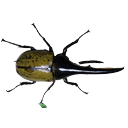
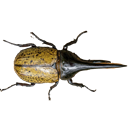
beetledata power add

diff --git a/client/src/utils/beetleData.js b/client/src/utils/beetleData.js
@@ -13,12 +13,13 @@ export const beetleTypes = {
     def: 3,
     carry: 2,
     speed: 0.4,
+    power:100,
     count: 6,
     cost: 10,
     color: '#2E8B57',
     size: 14.2,
     imageScale: 1.1,
-    gachaRate: 0.872,
+    gachaRate: 0.793,
     purchasePrice: null,
   },
   
@@ -31,13 +32,14 @@ export const beetleTypes = {
     def: 10,
     carry: 2,
     speed: 0.35,
+    power:200,
     count: 3,
     cost: 20,
     color: '#654321',
     size: 18.5,
     imageScale: 1.35,
-    gachaRate: 0.034,
-    purchasePrice: 20000,
+    gachaRate: 0.05,
+    purchasePrice: 10000,
   },
   gohontsuno: {
     name: 'ゴホンツノオオカブト',
@@ -47,13 +49,14 @@ export const beetleTypes = {
     def: 10,
     carry: 2,
     speed: 0.3,
+    power:300,
     count: 0,
     cost: 22,
     color: '#6B4423',
     size: 18.7,
     imageScale: 1.4,
-    gachaRate: 0.033,
-    purchasePrice: 20000,
+    gachaRate: 0.05,
+    purchasePrice: 10000,
   },
   saturn: {
     name: 'サターンオオカブト',
@@ -63,13 +66,14 @@ export const beetleTypes = {
     def: 10,
     carry: 2,
     speed: 0.3,
+    power:300,
     count: 0,
     cost: 23,
     color: '#704214',
     size: 19.7,
     imageScale: 1.45,
-    gachaRate: 0.033,
-    purchasePrice: 20000,
+    gachaRate: 0.05,
+    purchasePrice: 10000,
   },
   
   // 3段（高レア）- 4%
@@ -81,13 +85,14 @@ export const beetleTypes = {
     def: 15,
     carry: 2,
     speed: 0.25,
+    power:300,
     count: 2,
     cost: 30,
     color: '#A0522D',
     size: 20.9,
     imageScale: 1.5,
-    gachaRate: 0.005,
-    purchasePrice: 50000,
+    gachaRate: 0.01,
+    purchasePrice: 20000,
   },
   ookuwa: {
     name: 'オオクワガタ',
@@ -97,13 +102,14 @@ export const beetleTypes = {
     def: 13,
     carry: 2,
     speed: 0.22,
+    power:300,
     count: 0,
     cost: 29,
     color: '#2C1810',
     size: 18.5,
     imageScale: 1.55,
-    gachaRate: 0.005,
-    purchasePrice: 50000,
+    gachaRate: 0.01,
+    purchasePrice: 20000,
   },
   elephas: {
     name: 'エレファスゾウカブト',
@@ -113,13 +119,14 @@ export const beetleTypes = {
     def: 23,
     carry: 2,
     speed: 0.15,
+    power:650,
     count: 0,
     cost: 35,
     color: '#c6b8a7ff',
     size: 22.8,
     imageScale: 2.0,
-    gachaRate: 0.005,
-    purchasePrice: 50000,
+    gachaRate: 0.01,
+    purchasePrice: 20000,
   },
   neptune: {
     name: 'ネプチューンオオカブト',
@@ -129,13 +136,14 @@ export const beetleTypes = {
     def: 16,
     carry: 2,
     speed: 0.22,
+    power:350,
     count: 0,
     cost: 32,
     color: '#5C4033',
     size: 21.3,
     imageScale: 1.65,
-    gachaRate: 0.005,
-    purchasePrice: 50000,
+    gachaRate: 0.01,
+    purchasePrice: 20000,
   },
   
   // 4段（最高レア）- 1%
@@ -147,13 +155,14 @@ export const beetleTypes = {
     def: 20,
     carry: 3,
     speed: 0.2,
+    power:400,
     count: 1,
     cost: 40,
     color: '#b2c28eff',
     size: 21.5,
     imageScale: 1.9,
-    gachaRate: 0.00125,
-    purchasePrice: 200000,
+    gachaRate: 0.0025,
+    purchasePrice: 80000,
   },
   caucasus: {
     name: 'コーカサスオオカブト',
@@ -163,13 +172,14 @@ export const beetleTypes = {
     def: 19,
     carry: 3,
     speed: 0.22,
+    power:400,
     count: 0,
     cost: 39,
     color: '#293859ff',
     size: 20.9,
     imageScale: 1.8,
-    gachaRate: 0.00125,
-    purchasePrice: 200000,
+    gachaRate: 0.0025,
+    purchasePrice: 80000,
   },
   palawan: {
     name: 'パラワンヒラタクワガタ',
@@ -179,13 +189,14 @@ export const beetleTypes = {
     def: 17,
     carry: 2,
     speed: 0.23,
+    power:400,
     count: 0,
     cost: 38,
     color: '#322320ff',
     size: 19.6,
     imageScale: 1.8,
-    gachaRate: 0.00125,
-    purchasePrice: 200000,
+    gachaRate: 0.0025,
+    purchasePrice: 80000,
   },
   tarandus: {
     name: 'タランドゥスオオツヤクワガタ',
@@ -195,13 +206,14 @@ export const beetleTypes = {
     def: 16,
     carry: 2,
     speed: 0.22,
+    power:400,
     count: 0,
     cost: 38,
     color: '#120303ff',
     size: 19.2,
     imageScale: 1.7,
-    gachaRate: 0.00125,
-    purchasePrice: 200000,
+    gachaRate: 0.0025,
+    purchasePrice: 80000,
   },
   
   // 5段（特別）- 0.4%
@@ -213,13 +225,14 @@ export const beetleTypes = {
     def: 22,
     carry: 3,
     speed: 0.2,
+    power:450,
     count: 0,
     cost: 50,
     color: '#f33939b8',
     size: 20.8,
     imageScale:2.0,
-    gachaRate: 0.00067,
-    purchasePrice: 500000,
+    gachaRate: 0.00134,
+    purchasePrice: 200000,
   },
   superiorcaucasus: {
     name: 'スペリオルコーカサス',
@@ -229,13 +242,14 @@ export const beetleTypes = {
     def: 20,
     carry: 3,
     speed: 0.2,
+    power:450,
     count: 0,
     cost: 50,
     color: '#65b329ff',
     size: 20.8,
     imageScale: 2.0,
-    gachaRate: 0.00067,
-    purchasePrice: 500000,
+    gachaRate: 0.00133,
+    purchasePrice: 200000,
   },
   niki: {
     name: '金文ニキ',
@@ -245,13 +259,14 @@ export const beetleTypes = {
     def: 3,
     carry: 2,
     speed: 0.5,
+    power:150,
     count: 0,
     cost: 15,
     color: '#1bececff',
     size: 14.7,
     imageScale: 1.15,
-    gachaRate: 0.00066,
-    purchasePrice: 500000,
+    gachaRate: 0.00133,
+    purchasePrice: 200000,
   },
   
   // 6段（幻）- 0.2%
@@ -263,12 +278,13 @@ export const beetleTypes = {
     def: 26,
     carry: 2,
     speed: 0.2,
+    power:500,
     count: 0,
     cost: 60,
     color: '#57d27caa',
     size: 22,
     imageScale: 2.05,
-    gachaRate: 0.0005,
+    gachaRate: 0.001,
     purchasePrice: null,
   },
   marvelous: {
@@ -279,12 +295,13 @@ export const beetleTypes = {
     def: 28,
     carry: 2,
     speed: 0.2,
+    power:500,
     count: 0,
     cost: 62,
     color: '#67dae06f',
     size: 22.1,
     imageScale: 2.1,
-    gachaRate: 0.0005,
+    gachaRate: 0.001,
     purchasePrice: null,
   },
 };
@@ -344,10 +361,10 @@ export const GACHA_RATES = {
  * 🆕 直接購入価格（レアリティ別）
  */
 export const PURCHASE_PRICES = {
-  2: 20000,
-  3: 50000,
-  4: 200000,
-  5: 500000,
+  2: 10000,
+  3: 20000,
+  4: 80000,
+  5: 200000,
 };
 
 /**
